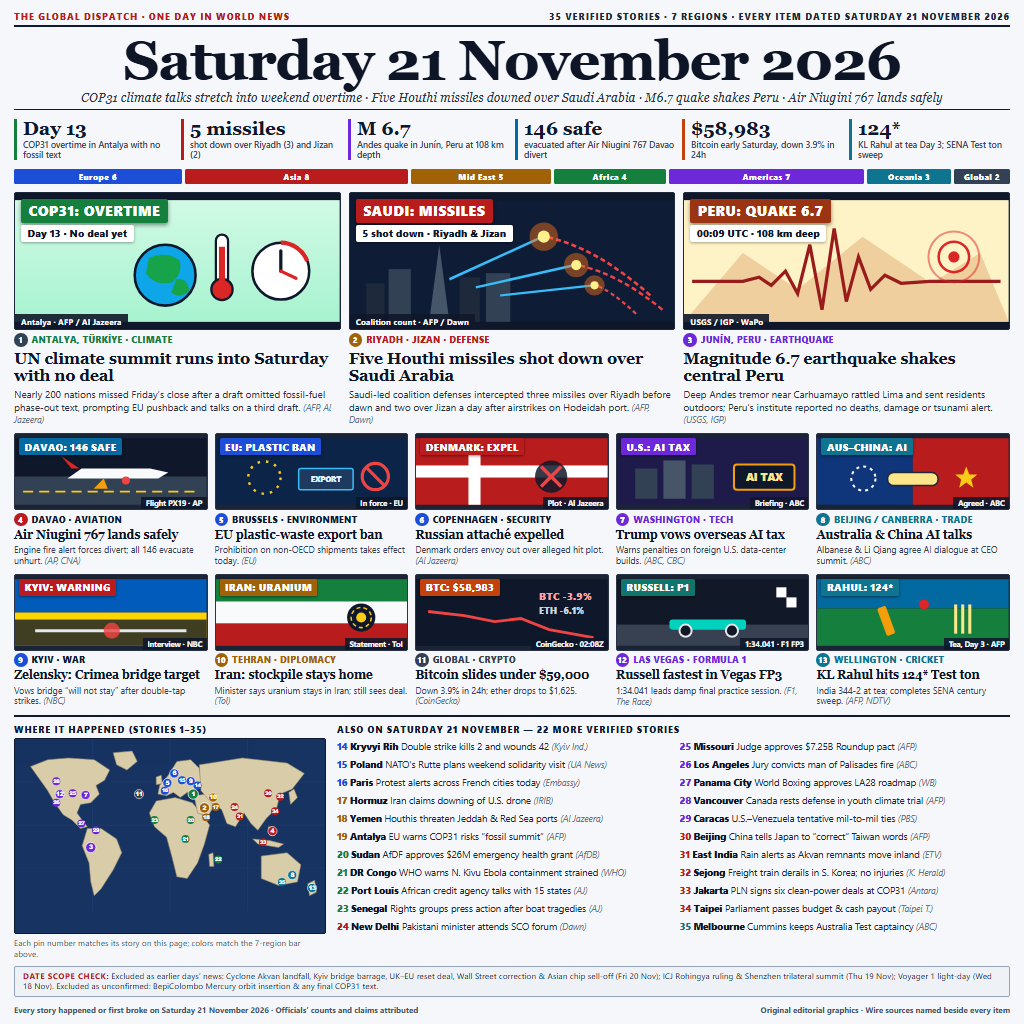
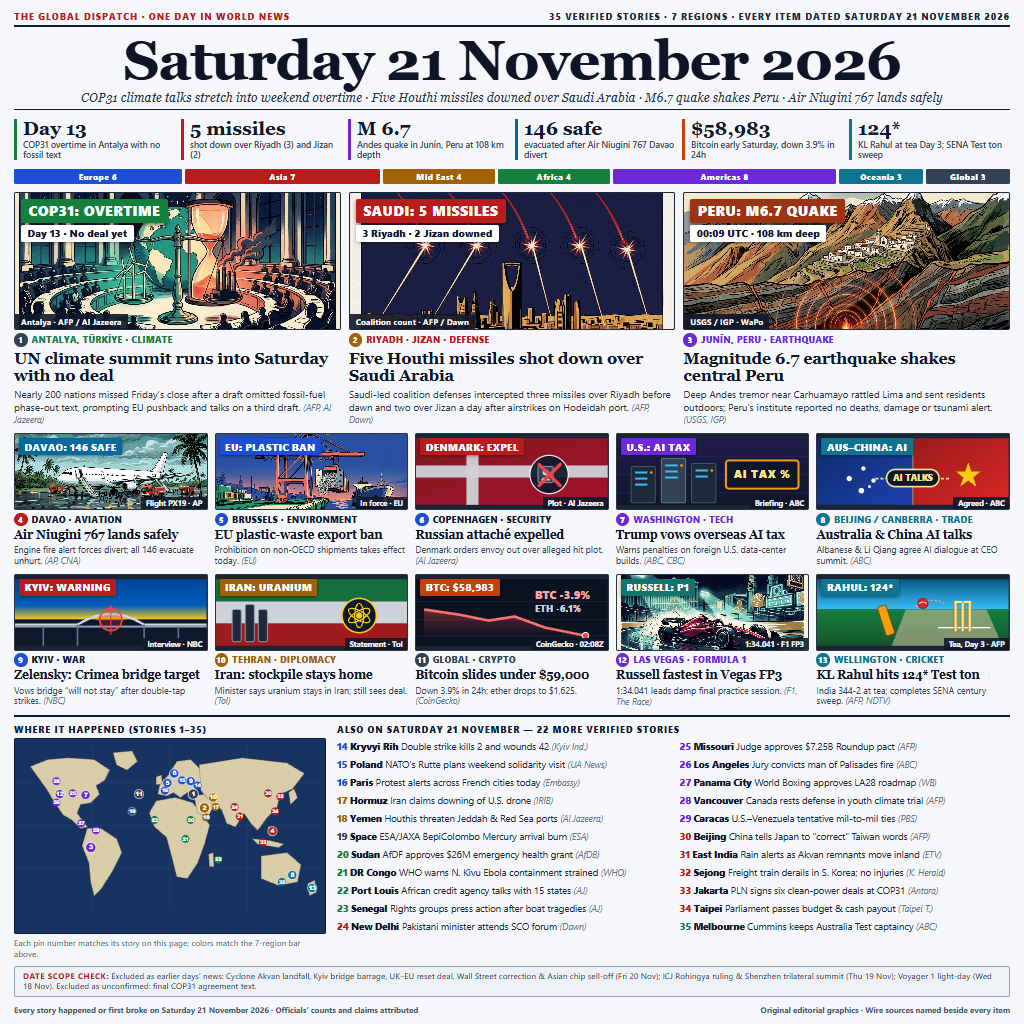
Upgrade front page with 6 bespoke editorial covers, richer graphics, and exact 35-pin regional balance

diff --git a/render.html b/render.html
@@ -97,7 +97,7 @@
   /* REGIONAL BALANCE BAR */
   .reg-bar {
     display: grid;
-    grid-template-columns: 6fr 8fr 5fr 4fr 7fr 3fr 2fr;
+    grid-template-columns: 6fr 7fr 4fr 4fr 8fr 3fr 3fr;
     gap: 3px;
     height: 15px;
   }
@@ -139,7 +139,7 @@
     overflow: hidden;
     background: #0F172A;
   }
-  .art-big svg { width: 100%; height: 100%; display: block; }
+  .art-big svg, .art-big img { width: 100%; height: 100%; display: block; object-fit: cover; }
   .banner-pill {
     position: absolute;
     top: 6px;
@@ -240,7 +240,7 @@
     overflow: hidden;
     background: #1B2434;
   }
-  .art-sm svg { width: 100%; height: 100%; display: block; }
+  .art-sm svg, .art-sm img { width: 100%; height: 100%; display: block; object-fit: cover; }
   .sm-pill {
     position: absolute;
     top: 4px;
@@ -380,34 +380,19 @@
 
   <div class="reg-bar">
     <div class="rb rb-eu">Europe 6</div>
-    <div class="rb rb-as">Asia 8</div>
-    <div class="rb rb-me">Mid East 5</div>
+    <div class="rb rb-as">Asia 7</div>
+    <div class="rb rb-me">Mid East 4</div>
     <div class="rb rb-af">Africa 4</div>
-    <div class="rb rb-am">Americas 7</div>
+    <div class="rb rb-am">Americas 8</div>
     <div class="rb rb-oc">Oceania 3</div>
-    <div class="rb rb-gl">Global 2</div>
+    <div class="rb rb-gl">Global 3</div>
   </div>
 
   <!-- 3 BIG LEAD STORIES -->
   <section class="leads-3">
     <article class="lead-big">
       <div class="art-big">
-        <svg viewBox="0 0 320 120" xmlns="http://www.w3.org/2000/svg">
-          <defs>
-            <linearGradient id="gCop" x1="0" y1="0" x2="0" y2="1"><stop offset="0%" stop-color="#D1FAE5"/><stop offset="100%" stop-color="#A7F3D0"/></linearGradient>
-          </defs>
-          <rect width="320" height="120" fill="url(#gCop)"/>
-          <circle cx="148" cy="74" r="30" fill="#0EA5E9" stroke="#0F172A" stroke-width="2.5"/>
-          <path d="M132,57 Q148,50 162,59 Q166,72 155,81 Q138,85 129,72 Z" fill="#16A34A"/>
-          <path d="M159,78 Q170,76 172,89 Q163,98 154,91 Z" fill="#16A34A"/>
-          <rect x="198" y="34" width="12" height="54" rx="6" fill="#FFF" stroke="#0F172A" stroke-width="2.2"/>
-          <circle cx="204" cy="88" r="10.5" fill="#DC2626" stroke="#0F172A" stroke-width="2.2"/>
-          <rect x="201" y="46" width="6" height="40" fill="#DC2626"/>
-          <circle cx="262" cy="70" r="28" fill="#FFF" stroke="#0F172A" stroke-width="2.5"/>
-          <line x1="262" y1="70" x2="262" y2="50" stroke="#0F172A" stroke-width="3.2" stroke-linecap="round"/>
-          <line x1="262" y1="70" x2="277" y2="77" stroke="#DC2626" stroke-width="3.2" stroke-linecap="round"/>
-          <path d="M262,42 A28,28 0 0 1 288,60" fill="none" stroke="#DC2626" stroke-width="4.2"/>
-        </svg>
+        <img src="ART_COP31" alt="COP31 Antalya Overtime">
         <span class="banner-pill" style="background:#15803D;">COP31: OVERTIME</span>
         <span class="sub-pill">Day 13 &middot; No deal yet</span>
         <span class="cap-pill">Antalya &middot; AFP / Al Jazeera</span>
@@ -419,25 +404,9 @@
 
     <article class="lead-big">
       <div class="art-big">
-        <svg viewBox="0 0 320 120" xmlns="http://www.w3.org/2000/svg">
-          <rect width="320" height="120" fill="#0F1C36"/>
-          <rect x="16" y="82" width="18" height="38" fill="#1E293B"/>
-          <rect x="38" y="68" width="22" height="52" fill="#334155"/>
-          <polygon points="88,44 98,120 78,120" fill="#475569"/>
-          <rect x="108" y="76" width="20" height="44" fill="#1E293B"/>
-          <rect x="134" y="72" width="24" height="48" fill="#334155"/>
-          <path d="M296,94 Q242,46 192,36" stroke="#EF4444" stroke-width="2.6" stroke-dasharray="5 3" fill="none"/>
-          <path d="M308,108 Q264,72 224,64" stroke="#EF4444" stroke-width="2.4" stroke-dasharray="5 3" fill="none"/>
-          <path d="M282,112 Q256,88 242,84" stroke="#EF4444" stroke-width="2.2" stroke-dasharray="4 3" fill="none"/>
-          <path d="M98,78 L190,36" stroke="#38BDF8" stroke-width="2.5" fill="none"/>
-          <path d="M124,86 L222,64" stroke="#38BDF8" stroke-width="2.5" fill="none"/>
-          <path d="M148,94 L240,84" stroke="#38BDF8" stroke-width="2.2" fill="none"/>
-          <circle cx="191" cy="36" r="14" fill="#F97316" opacity="0.45"/><circle cx="191" cy="36" r="6" fill="#FEF08A"/>
-          <circle cx="223" cy="64" r="12" fill="#F97316" opacity="0.45"/><circle cx="223" cy="64" r="5" fill="#FEF08A"/>
-          <circle cx="241" cy="84" r="10" fill="#F97316" opacity="0.45"/><circle cx="241" cy="84" r="4" fill="#FEF08A"/>
-        </svg>
-        <span class="banner-pill">SAUDI: MISSILES</span>
-        <span class="sub-pill">5 shot down &middot; Riyadh &amp; Jizan</span>
+        <img src="ART_RIYADH" alt="Saudi Air Defenses Intercept 5 Houthi Missiles">
+        <span class="banner-pill">SAUDI: 5 MISSILES</span>
+        <span class="sub-pill">3 Riyadh &middot; 2 Jizan downed</span>
         <span class="cap-pill">Coalition count &middot; AFP / Dawn</span>
       </div>
       <div class="kicker-line" style="color:#B91C1C;"><span class="num-dot c-me">2</span> RIYADH &middot; JIZAN &middot; DEFENSE</div>
@@ -447,15 +416,8 @@
 
     <article class="lead-big">
       <div class="art-big">
-        <svg viewBox="0 0 320 120" xmlns="http://www.w3.org/2000/svg">
-          <rect width="320" height="120" fill="#FEF3C7"/>
-          <polygon points="0,120 58,52 112,88 176,36 244,82 292,52 320,120" fill="#B45309" opacity="0.22"/>
-          <polyline points="8,80 58,80 74,76 86,84 100,70 112,92 124,44 136,108 148,28 160,100 172,56 184,88 198,74 214,82 242,80 312,80" fill="none" stroke="#991B1B" stroke-width="3.2"/>
-          <circle cx="266" cy="56" r="25" fill="none" stroke="#DC2626" stroke-width="2" opacity="0.5"/>
-          <circle cx="266" cy="56" r="15" fill="none" stroke="#DC2626" stroke-width="2.5"/>
-          <circle cx="266" cy="56" r="5.5" fill="#DC2626"/>
-        </svg>
-        <span class="banner-pill" style="background:#9A3412;">PERU: QUAKE 6.7</span>
+        <img src="ART_PERU" alt="Magnitude 6.7 Earthquake in Central Peru">
+        <span class="banner-pill" style="background:#9A3412;">PERU: M6.7 QUAKE</span>
         <span class="sub-pill">00:09 UTC &middot; 108 km deep</span>
         <span class="cap-pill">USGS / IGP &middot; WaPo</span>
       </div>
@@ -469,14 +431,7 @@
   <section class="grid-5">
     <article class="card-sm">
       <div class="art-sm">
-        <svg viewBox="0 0 190 66" xmlns="http://www.w3.org/2000/svg">
-          <rect width="190" height="38" fill="#0F172A"/><rect y="38" width="190" height="28" fill="#334155"/>
-          <line x1="8" y1="53" x2="182" y2="53" stroke="#FACC15" stroke-width="1.6" stroke-dasharray="10 6"/>
-          <path d="M52,40 L142,40 L152,34 L134,30 L66,30 Z" fill="#F8FAFC"/>
-          <polygon points="56,30 46,18 64,30" fill="#DC2626"/>
-          <path d="M88,40 L78,50 L92,50 Z" fill="#F59E0B"/>
-          <circle cx="110" cy="42" r="4" fill="#EF4444"/>
-        </svg>
+        <img src="ART_DAVAO" alt="Air Niugini 767 Davao Evacuation">
         <span class="sm-pill" style="background:#0369A1;">DAVAO: 146 SAFE</span>
         <span class="sm-cap">Flight PX19 &middot; AP</span>
       </div>
@@ -487,14 +442,7 @@
 
     <article class="card-sm">
       <div class="art-sm">
-        <svg viewBox="0 0 190 66" xmlns="http://www.w3.org/2000/svg">
-          <rect width="190" height="66" fill="#0B2447"/>
-          <circle cx="48" cy="39" r="16" fill="none" stroke="#FACC15" stroke-width="2.4" stroke-dasharray="2.5 6"/>
-          <rect x="82" y="30" width="54" height="21" rx="2" fill="#1E3A5F" stroke="#38BDF8" stroke-width="1.5"/>
-          <text x="109" y="43" text-anchor="middle" fill="#E0F2FE" font-size="7.5" font-weight="900">EXPORT</text>
-          <circle cx="158" cy="38" r="13" fill="none" stroke="#EF4444" stroke-width="3.2"/>
-          <line x1="149" y1="29" x2="167" y2="47" stroke="#EF4444" stroke-width="3.2"/>
-        </svg>
+        <img src="ART_PLASTIC" alt="EU Plastic-Waste Export Ban">
         <span class="sm-pill" style="background:#1D4ED8;">EU: PLASTIC BAN</span>
         <span class="sm-cap">In force &middot; EU</span>
       </div>
@@ -506,12 +454,21 @@
     <article class="card-sm">
       <div class="art-sm">
         <svg viewBox="0 0 190 66" xmlns="http://www.w3.org/2000/svg">
-          <rect width="190" height="66" fill="#B91C1C"/>
-          <rect x="52" y="0" width="12" height="66" fill="#FFF"/>
-          <rect x="0" y="27" width="190" height="12" fill="#FFF"/>
-          <circle cx="134" cy="38" r="16" fill="#0F172A" opacity="0.85"/>
-          <line x1="124" y1="28" x2="144" y2="48" stroke="#EF4444" stroke-width="3.5"/>
-          <line x1="144" y1="28" x2="124" y2="48" stroke="#EF4444" stroke-width="3.5"/>
+          <defs>
+            <linearGradient id="dkbg" x1="0" y1="0" x2="1" y2="1"><stop offset="0%" stop-color="#991B1B"/><stop offset="100%" stop-color="#C8102E"/></linearGradient>
+          </defs>
+          <rect width="190" height="66" fill="url(#dkbg)"/>
+          <rect x="50" y="0" width="12" height="66" fill="#F8FAFC" opacity="0.95"/>
+          <rect x="0" y="27" width="190" height="12" fill="#F8FAFC" opacity="0.95"/>
+          <rect width="190" height="66" fill="rgba(15,23,42,0.18)"/>
+          <g transform="translate(132,36)">
+            <circle r="19" fill="#0F172A" opacity="0.92" stroke="#F8FAFC" stroke-width="1.2"/>
+            <rect x="-11" y="-8" width="15" height="16" rx="1.5" fill="#334155" stroke="#94A3B8" stroke-width="0.9"/>
+            <circle cx="-3.5" cy="-2" r="3" fill="#CBD5E1"/>
+            <path d="M-8,6 C-8,2 1,2 1,6" fill="#CBD5E1"/>
+            <line x1="-10" y1="-10" x2="11" y2="11" stroke="#EF4444" stroke-width="3.2" stroke-linecap="round"/>
+            <line x1="11" y1="-10" x2="-10" y2="11" stroke="#EF4444" stroke-width="3.2" stroke-linecap="round"/>
+          </g>
         </svg>
         <span class="sm-pill">DENMARK: EXPEL</span>
         <span class="sm-cap">Plot &middot; Al Jazeera</span>
@@ -524,11 +481,22 @@
     <article class="card-sm">
       <div class="art-sm">
         <svg viewBox="0 0 190 66" xmlns="http://www.w3.org/2000/svg">
-          <rect width="190" height="66" fill="#1E1B4B"/>
-          <rect x="18" y="30" width="22" height="30" fill="#334155"/><rect x="46" y="22" width="22" height="38" fill="#475569"/>
-          <rect x="74" y="26" width="22" height="34" fill="#334155"/>
-          <rect x="116" y="26" width="60" height="25" rx="3" fill="#0F172A" stroke="#F59E0B" stroke-width="2"/>
-          <text x="146" y="42" text-anchor="middle" fill="#FDE68A" font-size="10.5" font-weight="900">AI TAX</text>
+          <defs>
+            <linearGradient id="usbg" x1="0" y1="0" x2="0" y2="1"><stop offset="0%" stop-color="#1E1B4B"/><stop offset="100%" stop-color="#0F172A"/></linearGradient>
+          </defs>
+          <rect width="190" height="66" fill="url(#usbg)"/>
+          <g stroke="#312E81" stroke-width="0.6" opacity="0.6">
+            <line x1="0" y1="18" x2="190" y2="18"/><line x1="0" y1="36" x2="190" y2="36"/><line x1="0" y1="54" x2="190" y2="54"/>
+          </g>
+          <!-- Server racks with glowing status LEDs -->
+          <rect x="14" y="28" width="24" height="36" rx="1.5" fill="#1E293B" stroke="#475569" stroke-width="1"/>
+          <rect x="44" y="20" width="24" height="44" rx="1.5" fill="#334155" stroke="#64748B" stroke-width="1"/>
+          <rect x="74" y="25" width="24" height="39" rx="1.5" fill="#1E293B" stroke="#475569" stroke-width="1"/>
+          <g fill="#38BDF8"><rect x="18" y="33" width="12" height="2"/><rect x="18" y="39" width="12" height="2"/><rect x="18" y="45" width="12" height="2"/><rect x="48" y="26" width="12" height="2"/><rect x="48" y="32" width="12" height="2"/><rect x="48" y="38" width="12" height="2"/><rect x="78" y="31" width="12" height="2"/><rect x="78" y="37" width="12" height="2"/></g>
+          <g fill="#F59E0B"><circle cx="34" cy="34" r="1.3"/><circle cx="64" cy="27" r="1.3"/><circle cx="94" cy="32" r="1.3"/></g>
+          <!-- Tariff stamp badge -->
+          <rect x="108" y="22" width="72" height="28" rx="3" fill="#0F172A" stroke="#F59E0B" stroke-width="2"/>
+          <text x="144" y="39" text-anchor="middle" fill="#FDE68A" font-size="11" font-weight="900" letter-spacing="0.06em">AI TAX %</text>
         </svg>
         <span class="sm-pill" style="background:#6D28D9;">U.S.: AI TAX</span>
         <span class="sm-cap">Briefing &middot; ABC</span>
@@ -541,10 +509,20 @@
     <article class="card-sm">
       <div class="art-sm">
         <svg viewBox="0 0 190 66" xmlns="http://www.w3.org/2000/svg">
-          <rect width="95" height="66" fill="#0F357A"/><rect x="95" width="95" height="66" fill="#B91C1C"/>
-          <circle cx="46" cy="40" r="12" fill="none" stroke="#FFF" stroke-width="2" stroke-dasharray="3 4"/>
-          <polygon points="148,28 151,36 159,36 153,41 155,49 148,44 141,49 143,41 137,36 145,36" fill="#FACC15"/>
-          <rect x="70" y="34" width="50" height="13" rx="6" fill="#FDE68A" stroke="#1E293B" stroke-width="1.5"/>
+          <defs>
+            <linearGradient id="auL" x1="0" y1="0" x2="1" y2="1"><stop offset="0%" stop-color="#0C2D6B"/><stop offset="100%" stop-color="#1E40AF"/></linearGradient>
+            <linearGradient id="cnR" x1="0" y1="0" x2="1" y2="1"><stop offset="0%" stop-color="#991B1B"/><stop offset="100%" stop-color="#DC2626"/></linearGradient>
+          </defs>
+          <rect width="95" height="66" fill="url(#auL)"/><rect x="95" width="95" height="66" fill="url(#cnR)"/>
+          <line x1="95" y1="0" x2="95" y2="66" stroke="#FDE68A" stroke-width="1" opacity="0.5"/>
+          <!-- Southern Cross stars -->
+          <g fill="#F8FAFC"><circle cx="32" cy="40" r="2.6"/><circle cx="46" cy="30" r="2.2"/><circle cx="56" cy="42" r="2.2"/><circle cx="44" cy="52" r="2.8"/><circle cx="52" cy="48" r="1.4"/></g>
+          <!-- Chinese gold star -->
+          <polygon points="150,24 153,33 162,33 155,39 158,48 150,42 142,48 145,39 138,33 147,33" fill="#FACC15"/>
+          <!-- Diplomatic neural link bridge -->
+          <line x1="58" y1="40" x2="132" y2="40" stroke="#FDE68A" stroke-width="1.8" stroke-dasharray="3 2"/>
+          <rect x="69" y="31" width="52" height="17" rx="8.5" fill="#0F172A" stroke="#FDE68A" stroke-width="1.6"/>
+          <text x="95" y="42.5" text-anchor="middle" fill="#FDE68A" font-size="8.6" font-weight="900">AI TALKS</text>
         </svg>
         <span class="sm-pill" style="background:#0E7490;">AUS&ndash;CHINA: AI</span>
         <span class="sm-cap">Agreed &middot; ABC</span>
@@ -560,10 +538,18 @@
     <article class="card-sm">
       <div class="art-sm">
         <svg viewBox="0 0 190 66" xmlns="http://www.w3.org/2000/svg">
-          <rect width="190" height="33" fill="#005BBB"/><rect y="33" width="190" height="33" fill="#FFD500"/>
-          <rect y="40" width="190" height="26" fill="rgba(15,23,42,0.8)"/>
-          <line x1="20" y1="51" x2="170" y2="51" stroke="#E2E8F0" stroke-width="3"/>
-          <circle cx="96" cy="51" r="8" fill="#EF4444" opacity="0.82"/>
+          <defs>
+            <linearGradient id="uaSky" x1="0" y1="0" x2="0" y2="1"><stop offset="0%" stop-color="#004799"/><stop offset="65%" stop-color="#005BBB"/><stop offset="100%" stop-color="#FACC15"/></linearGradient>
+          </defs>
+          <rect width="190" height="40" fill="url(#uaSky)"/>
+          <rect y="40" width="190" height="26" fill="#0F172A"/>
+          <!-- Kerch strait bridge arch silhouette -->
+          <path d="M0,45 L62,45 Q95,24 128,45 L190,45" fill="none" stroke="#CBD5E1" stroke-width="2.4"/>
+          <line x1="0" y1="47" x2="190" y2="47" stroke="#94A3B8" stroke-width="2"/>
+          <g stroke="#64748B" stroke-width="1.6"><line x1="28" y1="47" x2="28" y2="66"/><line x1="62" y1="45" x2="62" y2="66"/><line x1="128" y1="45" x2="128" y2="66"/><line x1="162" y1="47" x2="162" y2="66"/></g>
+          <!-- Crosshair reticle over central arch -->
+          <circle cx="95" cy="40" r="11" fill="rgba(239,68,68,0.22)" stroke="#EF4444" stroke-width="1.8"/>
+          <line x1="95" y1="25" x2="95" y2="55" stroke="#EF4444" stroke-width="1.1"/><line x1="80" y1="40" x2="110" y2="40" stroke="#EF4444" stroke-width="1.1"/>
         </svg>
         <span class="sm-pill">KYIV: WARNING</span>
         <span class="sm-cap">Interview &middot; NBC</span>
@@ -576,10 +562,20 @@
     <article class="card-sm">
       <div class="art-sm">
         <svg viewBox="0 0 190 66" xmlns="http://www.w3.org/2000/svg">
-          <rect width="190" height="22" fill="#15803D"/><rect y="22" width="190" height="22" fill="#F8FAFC"/><rect y="44" width="190" height="22" fill="#B91C1C"/>
-          <circle cx="144" cy="38" r="14" fill="#0F172A"/>
-          <circle cx="144" cy="38" r="5" fill="#FACC15"/>
-          <circle cx="144" cy="38" r="10" fill="none" stroke="#FACC15" stroke-width="1.5" stroke-dasharray="4 3"/>
+          <rect width="190" height="22" fill="#15803D"/><rect y="22" width="190" height="22" fill="#F1F5F9"/><rect y="44" width="190" height="22" fill="#B91C1C"/>
+          <rect width="190" height="66" fill="rgba(15,23,42,0.16)"/>
+          <!-- Centrifuge columns on left -->
+          <g fill="#1E293B" stroke="#94A3B8" stroke-width="0.9">
+            <rect x="16" y="30" width="9" height="32" rx="2"/><rect x="29" y="25" width="9" height="37" rx="2"/><rect x="42" y="30" width="9" height="32" rx="2"/>
+          </g>
+          <!-- Nuclear emblem medallion -->
+          <g transform="translate(142,36)">
+            <circle r="17" fill="#0F172A" stroke="#FACC15" stroke-width="1.5"/>
+            <ellipse rx="12" ry="4.5" fill="none" stroke="#FACC15" stroke-width="1.2" transform="rotate(30)"/>
+            <ellipse rx="12" ry="4.5" fill="none" stroke="#FACC15" stroke-width="1.2" transform="rotate(-30)"/>
+            <ellipse rx="12" ry="4.5" fill="none" stroke="#FACC15" stroke-width="1.2" transform="rotate(90)"/>
+            <circle r="3.2" fill="#FACC15"/>
+          </g>
         </svg>
         <span class="sm-pill" style="background:#A16207;">IRAN: URANIUM</span>
         <span class="sm-cap">Statement &middot; ToI</span>
@@ -592,10 +588,16 @@
     <article class="card-sm">
       <div class="art-sm">
         <svg viewBox="0 0 190 66" xmlns="http://www.w3.org/2000/svg">
-          <rect width="190" height="66" fill="#0F172A"/>
-          <polyline points="12,32 48,36 78,42 104,39 132,50 176,58" fill="none" stroke="#EF4444" stroke-width="2.8"/>
-          <text x="122" y="21" fill="#FCA5A5" font-size="10.4" font-weight="900">BTC -3.9%</text>
-          <text x="122" y="34" fill="#CBD5E1" font-size="9" font-weight="800">ETH -6.1%</text>
+          <defs>
+            <linearGradient id="btcArea" x1="0" y1="0" x2="0" y2="1"><stop offset="0%" stop-color="#EF4444" stop-opacity="0.45"/><stop offset="100%" stop-color="#0F172A" stop-opacity="0.02"/></linearGradient>
+          </defs>
+          <rect width="190" height="66" fill="#0B1220"/>
+          <g stroke="#1E293B" stroke-width="0.7"><line x1="0" y1="22" x2="190" y2="22"/><line x1="0" y1="40" x2="190" y2="40"/><line x1="0" y1="56" x2="190" y2="56"/></g>
+          <polygon points="8,30 42,35 72,41 98,37 128,48 168,56 168,66 8,66" fill="url(#btcArea)"/>
+          <polyline points="8,30 42,35 72,41 98,37 128,48 168,56" fill="none" stroke="#F87171" stroke-width="2.6" stroke-linejoin="round"/>
+          <circle cx="168" cy="56" r="3.2" fill="#EF4444" stroke="#FFF" stroke-width="1"/>
+          <text x="118" y="20" fill="#FCA5A5" font-size="10.8" font-weight="900">BTC -3.9%</text>
+          <text x="118" y="33" fill="#CBD5E1" font-size="9.2" font-weight="800">ETH -6.1%</text>
         </svg>
         <span class="sm-pill" style="background:#C2410C;">BTC: $58,983</span>
         <span class="sm-cap">CoinGecko &middot; 02:08Z</span>
@@ -607,14 +609,7 @@
 
     <article class="card-sm">
       <div class="art-sm">
-        <svg viewBox="0 0 190 66" xmlns="http://www.w3.org/2000/svg">
-          <rect width="190" height="66" fill="#111827"/>
-          <rect x="0" y="45" width="190" height="21" fill="#374151"/>
-          <rect x="52" y="40" width="76" height="10" rx="3" fill="#00D2BE"/>
-          <circle cx="68" cy="51" r="6" fill="#111827" stroke="#E5E7EB" stroke-width="2"/>
-          <circle cx="114" cy="51" r="6" fill="#111827" stroke="#E5E7EB" stroke-width="2"/>
-          <rect x="158" y="8" width="10" height="10" fill="#FFF"/><rect x="168" y="18" width="10" height="10" fill="#FFF"/>
-        </svg>
+        <img src="ART_VEGAS" alt="Las Vegas F1 FP3">
         <span class="sm-pill" style="background:#0F766E;">RUSSELL: P1</span>
         <span class="sm-cap">1:34.041 &middot; F1 FP3</span>
       </div>
@@ -626,10 +621,24 @@
     <article class="card-sm">
       <div class="art-sm">
         <svg viewBox="0 0 190 66" xmlns="http://www.w3.org/2000/svg">
-          <rect width="190" height="29" fill="#0369A1"/><rect y="29" width="190" height="37" fill="#15803D"/>
-          <rect x="136" y="25" width="3" height="29" fill="#FDE68A"/><rect x="143" y="25" width="3" height="29" fill="#FDE68A"/><rect x="150" y="25" width="3" height="29" fill="#FDE68A"/>
-          <rect x="64" y="27" width="9" height="29" rx="2" fill="#F59E0B" transform="rotate(-20 68 41)"/>
-          <circle cx="106" cy="25" r="5" fill="#DC2626"/>
+          <defs>
+            <linearGradient id="nzSky" x1="0" y1="0" x2="0" y2="1"><stop offset="0%" stop-color="#075985"/><stop offset="100%" stop-color="#38BDF8"/></linearGradient>
+            <linearGradient id="nzTurf" x1="0" y1="0" x2="0" y2="1"><stop offset="0%" stop-color="#15803D"/><stop offset="100%" stop-color="#14532D"/></linearGradient>
+          </defs>
+          <rect width="190" height="30" fill="url(#nzSky)"/><rect y="30" width="190" height="36" fill="url(#nzTurf)"/>
+          <!-- Basin Reserve pitch strip -->
+          <polygon points="88,30 168,30 184,66 74,66" fill="#D6C29F" opacity="0.55"/>
+          <line x1="120" y1="48" x2="172" y2="48" stroke="#FFF" stroke-width="1.3"/>
+          <!-- Stumps + bails -->
+          <rect x="136" y="23" width="3" height="29" fill="#FDE68A" stroke="#92400E" stroke-width="0.4"/>
+          <rect x="143" y="23" width="3" height="29" fill="#FDE68A" stroke="#92400E" stroke-width="0.4"/>
+          <rect x="150" y="23" width="3" height="29" fill="#FDE68A" stroke="#92400E" stroke-width="0.4"/>
+          <rect x="136" y="21.5" width="8" height="2" rx="0.8" fill="#FEF08A"/><rect x="145" y="21.5" width="8" height="2" rx="0.8" fill="#FEF08A"/>
+          <!-- Cricket bat + red leather ball arc -->
+          <path d="M98,27 Q114,16 128,25" fill="none" stroke="#FCA5A5" stroke-width="1.2" stroke-dasharray="2 2"/>
+          <rect x="64" y="26" width="9" height="30" rx="2" fill="#F59E0B" stroke="#78350F" stroke-width="0.8" transform="rotate(-18 68 41)"/>
+          <circle cx="105" cy="24" r="5" fill="#DC2626" stroke="#7F1D1D" stroke-width="0.8"/>
+          <path d="M101,24 Q105,21 109,24" fill="none" stroke="#F8FAFC" stroke-width="0.9"/>
         </svg>
         <span class="sm-pill" style="background:#0E7490;">RAHUL: 124*</span>
         <span class="sm-cap">Tea, Day 3 &middot; AFP</span>
@@ -683,7 +692,7 @@
           <!-- Crisp numbered pins for stories 1-35 -->
           <g font-family="sans-serif" font-size="6.4" font-weight="900" text-anchor="middle">
             <!-- Major illustrated 1-13 -->
-            <circle cx="207" cy="64" r="6" fill="#15803D" stroke="#FFF" stroke-width="0.9"/><text x="207" y="66.2" fill="#FFF">1</text>
+            <circle cx="207" cy="64" r="6" fill="#334155" stroke="#FFF" stroke-width="0.9"/><text x="207" y="66.2" fill="#FFF">1</text>
             <circle cx="220" cy="80" r="6" fill="#A16207" stroke="#FFF" stroke-width="0.9"/><text x="220" y="82.2" fill="#FFF">2</text>
             <circle cx="88" cy="126" r="6" fill="#6D28D9" stroke="#FFF" stroke-width="0.9"/><text x="88" y="128.2" fill="#FFF">3</text>
             <circle cx="299" cy="107" r="5.3" fill="#B91C1C" stroke="#FFF" stroke-width="0.7"/><text x="299" y="109.2" fill="#FFF">4</text>
@@ -702,6 +711,7 @@
             <circle cx="174" cy="60" r="4.6" fill="#1D4ED8"/><text x="174" y="62" fill="#FFF" font-size="5.4">16</text>
             <circle cx="233" cy="79" r="4.6" fill="#A16207"/><text x="233" y="81" fill="#FFF" font-size="5.4">17</text>
             <circle cx="222" cy="91" r="4.6" fill="#A16207"/><text x="222" y="93" fill="#FFF" font-size="5.4">18</text>
+            <circle cx="136" cy="84" r="4.6" fill="#334155" stroke="#93C5FD" stroke-width="0.7"/><text x="136" y="86" fill="#FFF" font-size="5.4">19</text>
             <circle cx="204" cy="94" r="4.6" fill="#15803D"/><text x="204" y="96" fill="#FFF" font-size="5.4">20</text>
             <circle cx="198" cy="116" r="4.6" fill="#15803D"/><text x="198" y="118" fill="#FFF" font-size="5.4">21</text>
             <circle cx="236" cy="140" r="4.6" fill="#15803D"/><text x="236" y="142" fill="#FFF" font-size="5.4">22</text>
@@ -742,7 +752,7 @@
         <div class="w-item"><span class="w-num w-me">18</span><span class="w-loc">Yemen</span> Houthis threaten Jeddah &amp; Red Sea ports <span class="src">(Al Jazeera)</span></div>
         <div class="w-item"><span class="w-num w-am">29</span><span class="w-loc">Caracas</span> U.S.&ndash;Venezuela tentative mil-to-mil ties <span class="src">(PBS)</span></div>
 
-        <div class="w-item"><span class="w-num w-me">19</span><span class="w-loc">Antalya</span> EU warns COP31 risks &ldquo;fossil summit&rdquo; <span class="src">(AFP)</span></div>
+        <div class="w-item"><span class="w-num w-gl">19</span><span class="w-loc">Space</span> ESA/JAXA BepiColombo Mercury arrival burn <span class="src">(ESA)</span></div>
         <div class="w-item"><span class="w-num w-as">30</span><span class="w-loc">Beijing</span> China tells Japan to &ldquo;correct&rdquo; Taiwan words <span class="src">(AFP)</span></div>
 
         <div class="w-item"><span class="w-num w-af">20</span><span class="w-loc">Sudan</span> AfDF approves $26M emergency health grant <span class="src">(AfDB)</span></div>
@@ -764,7 +774,7 @@
   </section>
 
   <div class="scope-box">
-    <strong>Date Scope Check:</strong> Excluded as earlier days&rsquo; news: Cyclone Akvan landfall, Kyiv bridge barrage, UK&ndash;EU reset deal, Wall Street correction &amp; Asian chip sell-off (Fri 20 Nov); ICJ Rohingya ruling &amp; Shenzhen trilateral summit (Thu 19 Nov); Voyager 1 light-day (Wed 18 Nov). Excluded as unconfirmed: BepiColombo Mercury orbit insertion &amp; any final COP31 text.
+    <strong>Date Scope Check:</strong> Excluded as earlier days&rsquo; news: Cyclone Akvan landfall, Kyiv bridge barrage, UK&ndash;EU reset deal, Wall Street correction &amp; Asian chip sell-off (Fri 20 Nov); ICJ Rohingya ruling &amp; Shenzhen trilateral summit (Thu 19 Nov); Voyager 1 light-day (Wed 18 Nov). Excluded as unconfirmed: final COP31 agreement text.
   </div>
   <div class="foot-line">
     <span>Every story happened or first broke on Saturday 21 November 2026 &middot; Officials&rsquo; counts and claims attributed</span>
